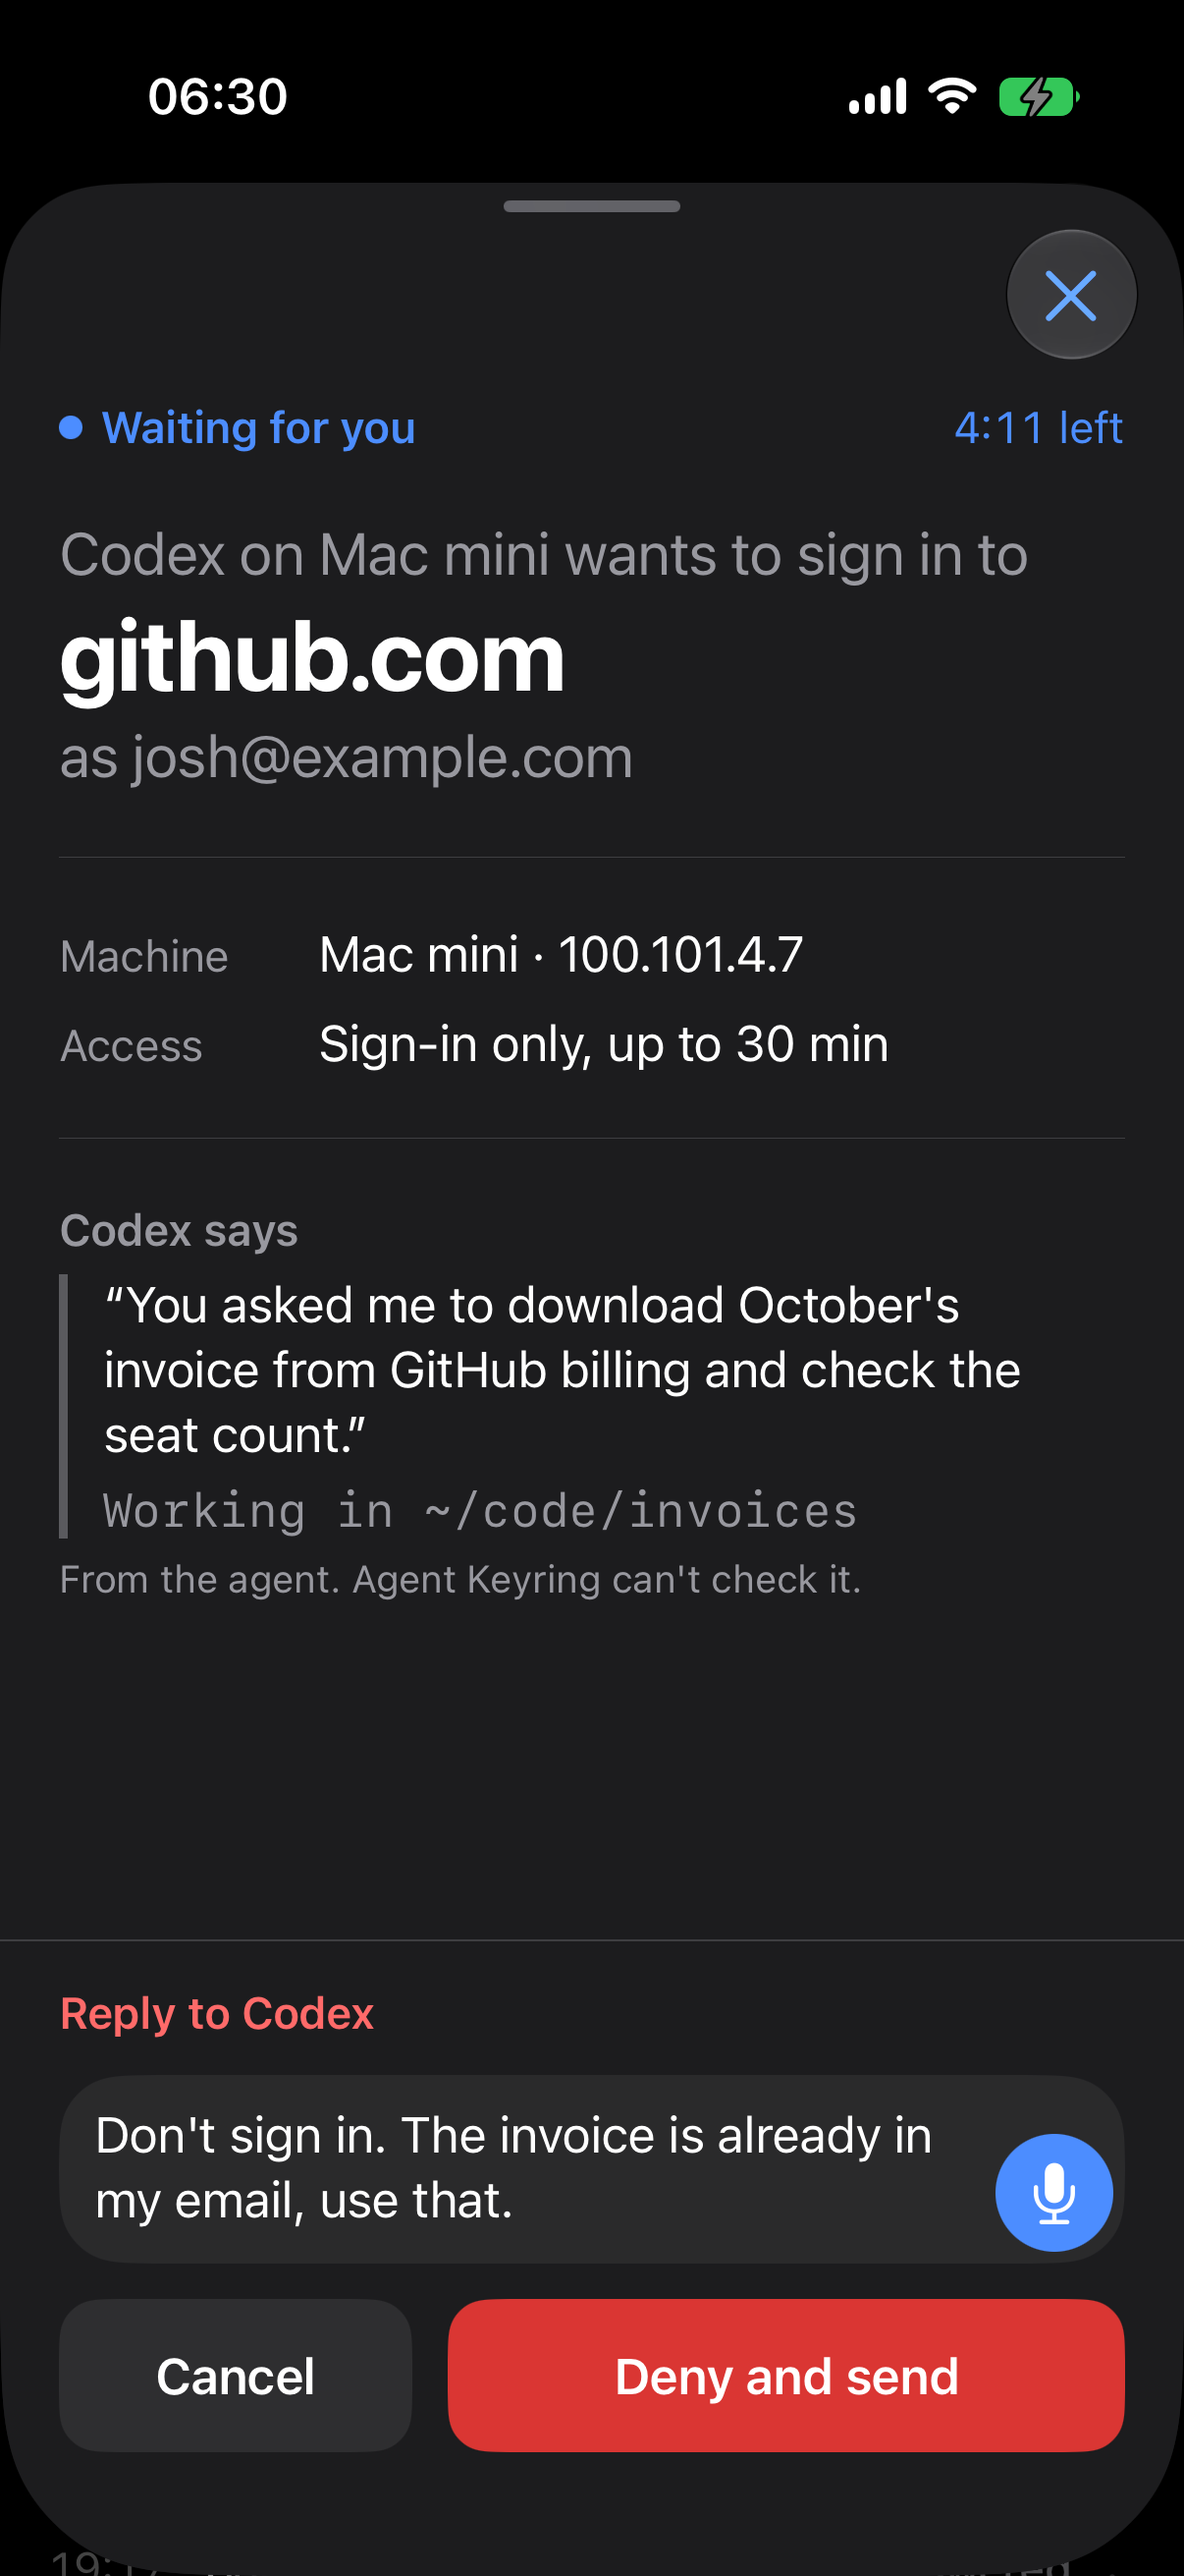
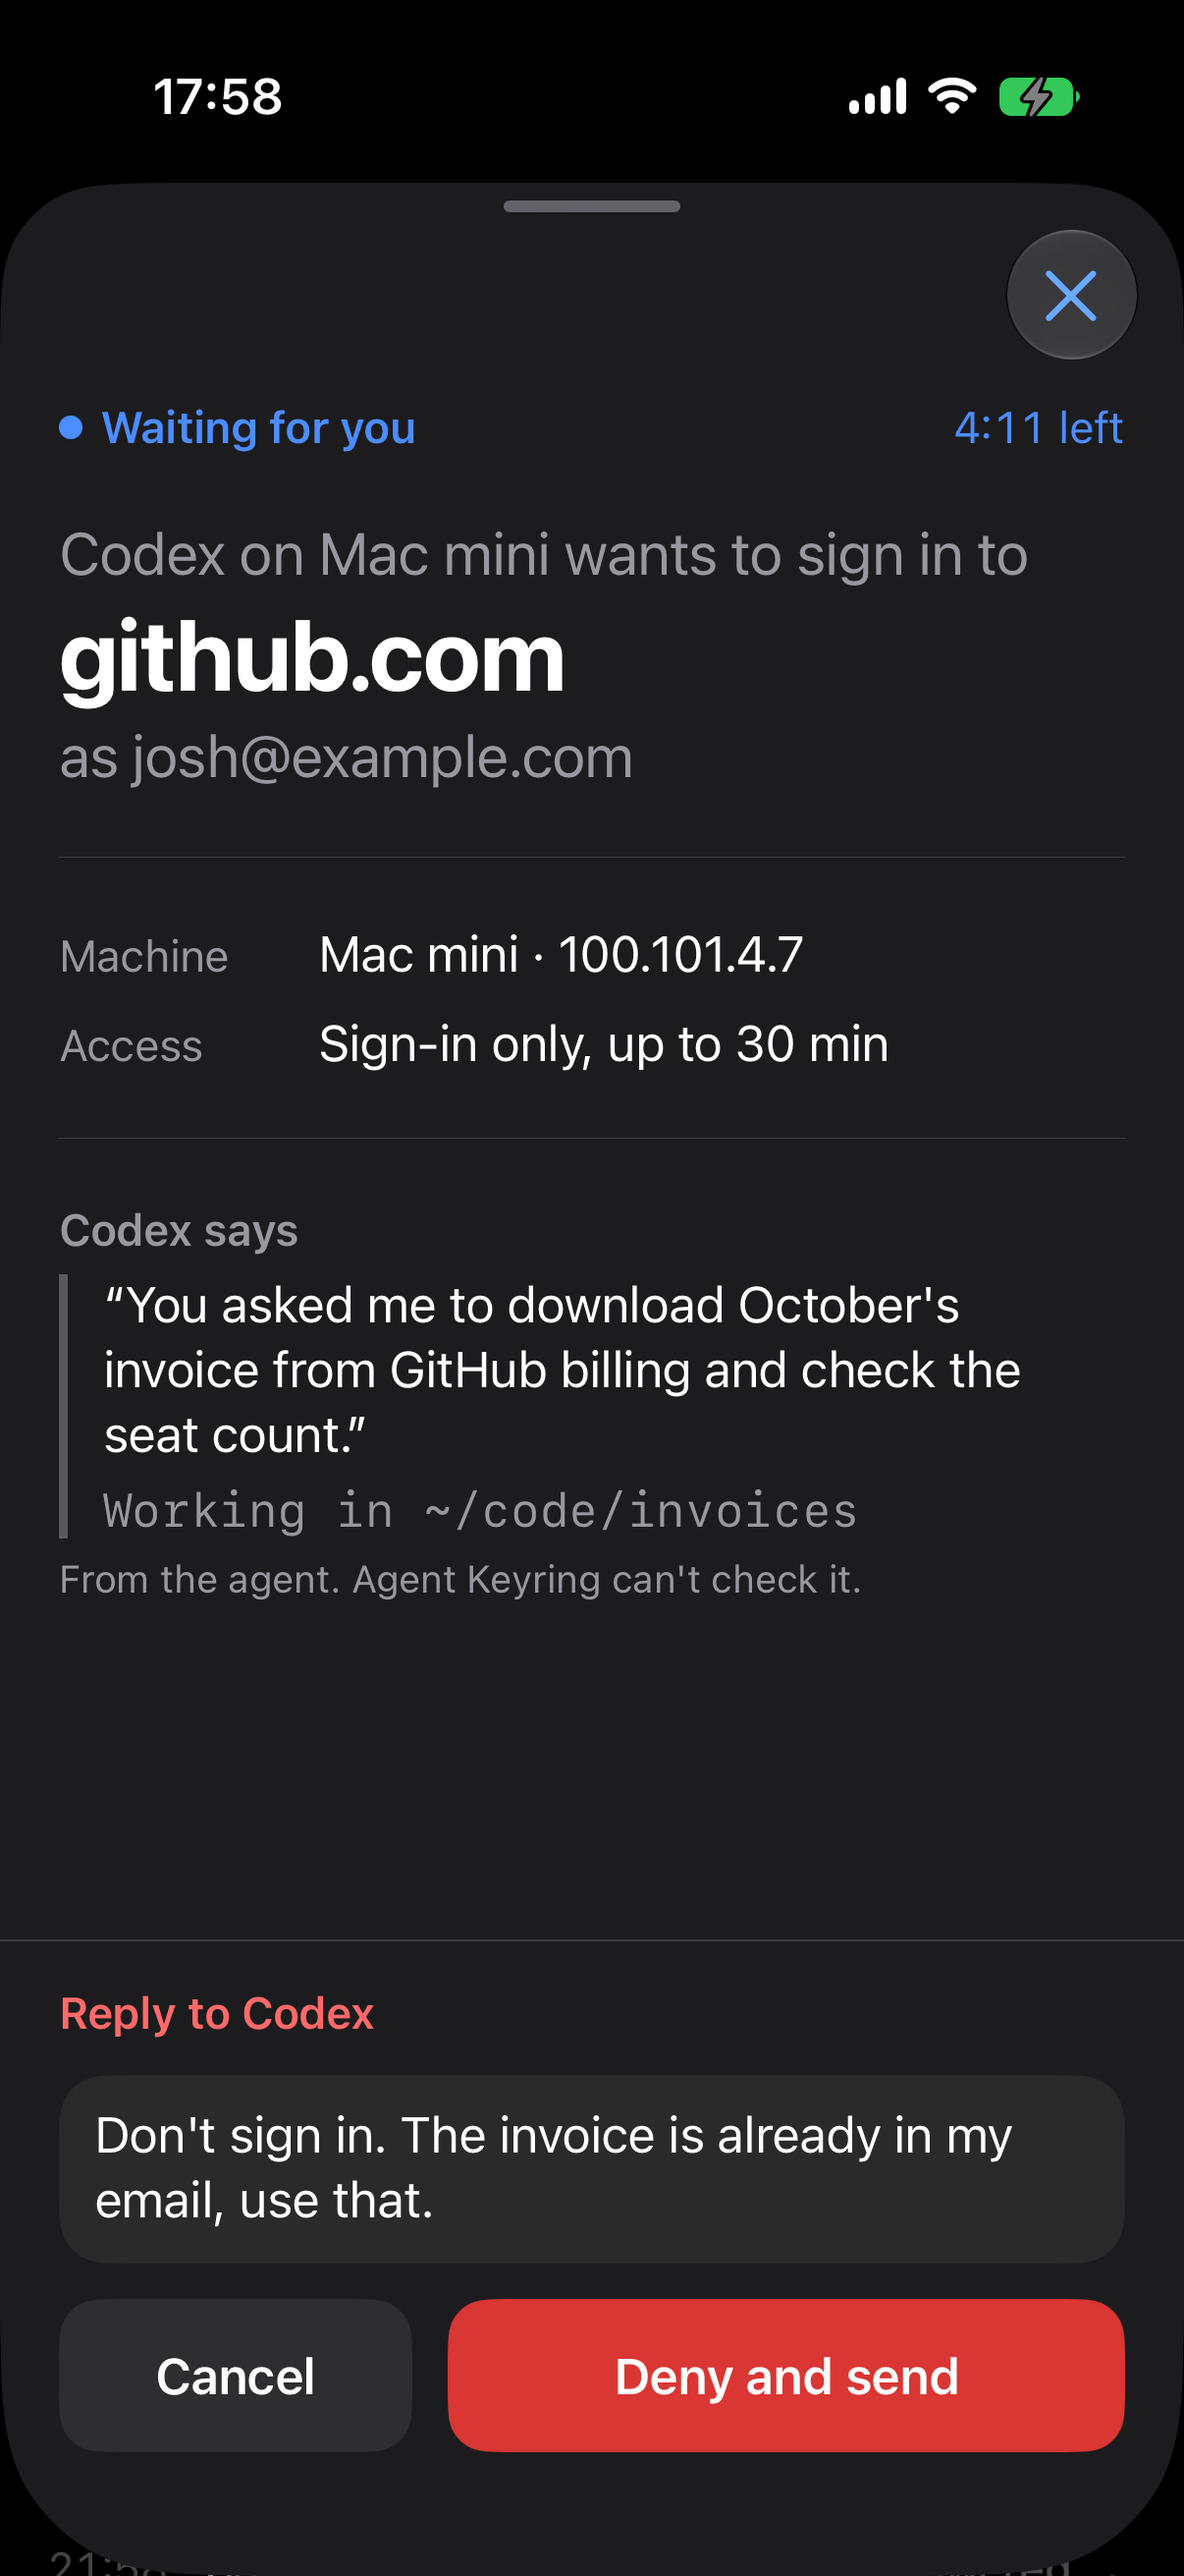
Drop the reply's microphone button; keyboard dictation is enough
Josh: "why do we need microphone nonsense". The reply field stays, and
the iOS keyboard's own dictation key works in it. Removed: the microphone
button and its state from the reply view and PhoneKeyringModel, dictation()
from PhoneKeyringBackend and its mock, the phone's speech recogniser
(PhoneReplyDictation.swift) and its use in PhoneImportBackend, and the
microphone and speech-recognition usage strings from the phone's
Info.plist. The reply screenshots and the notes are updated.

diff --git a/AgentKeyringPackage/Sources/AgentKeyringApprovalUI/Phone/PhoneKeyringModel.swift b/AgentKeyringPackage/Sources/AgentKeyringApprovalUI/Phone/PhoneKeyringModel.swift
@@ -70,8 +70,6 @@ public protocol PhoneKeyringBackend: AnyObject {
     /// Asks iOS to allow exports to Agent Keyring; the export starts in Passwords.
     func openPasswordsForImport()
     func setAskPhoneAfter(_ delay: Duration) async throws
-    /// Live transcript of Josh speaking, until the stream is cancelled.
-    func dictation() -> AsyncThrowingStream<String, any Error>
 }
 
 @MainActor
@@ -83,20 +81,13 @@ public final class PhoneKeyringModel {
     public private(set) var settings: PhoneSettings
     public private(set) var pairing: PhonePairingState
     /// The request on screen. Set when Josh taps a notification.
-    public var presentedRequestID: String? {
-        didSet { if oldValue != presentedRequestID { stopDictation() } }
-    }
+    public var presentedRequestID: String?
     public var isShowingSettings = false
     public var replyDraft = ""
-    public var isReplying = false {
-        didSet { if !isReplying { stopDictation() } }
-    }
-    public private(set) var isListening = false
+    public var isReplying = false
     public private(set) var failure: String?
 
     private let backend: any PhoneKeyringBackend
-    private var dictationTask: Task<Void, Never>?
-    private var dictationID: UUID?
 
     public init(backend: any PhoneKeyringBackend, initial: PhoneKeyringSnapshot) {
         self.backend = backend
@@ -109,7 +100,6 @@ public final class PhoneKeyringModel {
 
     /// Follows the backend until the view goes away. Call from `.task`.
     public func followUpdates() async {
-        defer { stopDictation() }
         for await snapshot in backend.updates() {
             apply(snapshot)
         }
@@ -129,9 +119,6 @@ public final class PhoneKeyringModel {
         connection = snapshot.connection
         settings = snapshot.settings
         pairing = snapshot.pairing
-        if let presentedRequestID, request(id: presentedRequestID)?.state.isWaitingForYou != true {
-            stopDictation()
-        }
     }
 
     public var waiting: [AccessRequest] { requests.filter(\.state.isWaitingForYou) }
@@ -150,7 +137,6 @@ public final class PhoneKeyringModel {
 
     public func deny(_ id: String) async {
         let reply = replyDraft.trimmingCharacters(in: .whitespacesAndNewlines)
-        stopDictation()
         isReplying = false
         await answer(id, choice: .deny) {
             try await backend.deny(requestID: id, reply: reply.isEmpty ? nil : reply)
@@ -187,37 +173,6 @@ public final class PhoneKeyringModel {
             settings.askPhoneAfter = previous
             failure = "Couldn't save that. Agent Keyring isn't reachable."
         }
-    }
-
-    public func toggleDictation() {
-        if isListening { stopDictation(); return }
-        failure = nil
-        isListening = true
-        let id = UUID()
-        dictationID = id
-        let start = replyDraft.isEmpty ? "" : replyDraft + " "
-        let stream = backend.dictation()
-        dictationTask = Task { [weak self] in
-            do {
-                for try await transcript in stream {
-                    guard !Task.isCancelled, self?.dictationID == id else { break }
-                    self?.replyDraft = start + transcript
-                }
-            } catch {
-                if !Task.isCancelled, self?.dictationID == id { self?.failure = error.localizedDescription }
-            }
-            guard self?.dictationID == id else { return }
-            self?.isListening = false
-            self?.dictationID = nil
-            self?.dictationTask = nil
-        }
-    }
-
-    public func stopDictation() {
-        dictationID = nil
-        dictationTask?.cancel()
-        dictationTask = nil
-        isListening = false
     }
 
     public func dismissFailure() { failure = nil }

diff --git a/AgentKeyringPackage/Sources/AgentKeyringApprovalUI/Phone/PhoneRequestView.swift b/AgentKeyringPackage/Sources/AgentKeyringApprovalUI/Phone/PhoneRequestView.swift
@@ -176,32 +176,16 @@ private struct PhoneReplyComposer: View {
                 .font(.subheadline.weight(.semibold))
                 .foregroundStyle(KeyringColour.denyText)
 
-            HStack(alignment: .bottom, spacing: 8) {
-                TextField(AccessRequestCopy.replyPlaceholder, text: $model.replyDraft, axis: .vertical)
-                    .lineLimit(2...6)
-                    .focused($focused)
-                    .padding(.vertical, 10)
-                    .padding(.leading, 12)
-                Button {
-                    model.toggleDictation()
-                } label: {
-                    Image(systemName: model.isListening ? "waveform" : "mic.fill")
-                        .symbolEffect(.variableColor.iterative, isActive: model.isListening)
-                        .font(.title3)
-                        .foregroundStyle(.white)
-                        .frame(width: 40, height: 40)
-                        .background(KeyringColour.signal, in: .circle)
-                }
-                .accessibilityLabel(model.isListening ? "Stop dictation" : "Dictate a reply")
-                .padding(4)
-            }
-            .background(Color.primary.opacity(0.06), in: .rect(cornerRadius: 22, style: .continuous))
+            // The keyboard's own dictation key works here; there is no separate microphone.
+            TextField(AccessRequestCopy.replyPlaceholder, text: $model.replyDraft, axis: .vertical)
+                .lineLimit(2...6)
+                .focused($focused)
+                .padding(.vertical, 10)
+                .padding(.horizontal, 12)
+                .background(Color.primary.opacity(0.06), in: .rect(cornerRadius: 16, style: .continuous))
 
             HStack(spacing: 12) {
-                Button("Cancel") {
-                    model.stopDictation()
-                    model.isReplying = false
-                }
+                Button("Cancel") { model.isReplying = false }
                 .buttonStyle(.quiet())
                 .frame(maxWidth: 120)
 

diff --git a/AgentKeyringPhone/PhoneImportBackend.swift b/AgentKeyringPhone/PhoneImportBackend.swift
@@ -13,7 +13,6 @@ final class PhoneImportBackend: PhoneKeyringBackend {
     private let importer: any CredentialImporting
     private let destination: any PhoneCredentialImportDestination
     private let approver: PhoneRelayApprover
-    private let replyDictation = PhoneReplyDictation()
     private var approverUpdates: Task<Void, Never>?
     private var subscribers: [UUID: AsyncStream<PhoneKeyringSnapshot>.Continuation] = [:]
     private var handledTokens = Set<UUID>()
@@ -150,7 +149,6 @@ final class PhoneImportBackend: PhoneKeyringBackend {
     }
 
     func stop() {
-        replyDictation.stop()
         approver.stop()
     }
 
@@ -176,7 +174,6 @@ final class PhoneImportBackend: PhoneKeyringBackend {
     }
     func allowAskingAgain(requestID: String) async throws -> AccessRequestState { try await approver.clearDenial(requestID) }
     func setAskPhoneAfter(_ delay: Duration) async throws { try await approver.setAskPhoneAfter(delay) }
-    func dictation() -> AsyncThrowingStream<String, any Error> { replyDictation.transcript() }
 
     private func logFailure(_ error: any Error, stage: String) {
         let failure = CredentialImportFailure(error: error, hadExistingMirror: false)

diff --git a/AgentKeyringPackage/Sources/AgentKeyringApprovalUI/Phone/PhoneDesignScenario.swift b/AgentKeyringPackage/Sources/AgentKeyringApprovalUI/Phone/PhoneDesignScenario.swift
@@ -185,21 +185,4 @@ final class DesignPhoneBackend: PhoneKeyringBackend {
     func openPasswordsForImport() {}
 
     func setAskPhoneAfter(_ delay: Duration) async throws {}
-
-    func dictation() -> AsyncThrowingStream<String, any Error> {
-        let words = "Stop. Use the invoice in my email instead.".split(separator: " ")
-        return AsyncThrowingStream { continuation in
-            let task = Task {
-                var transcript = ""
-                for word in words {
-                    try? await Task.sleep(for: .milliseconds(250))
-                    if Task.isCancelled { break }
-                    transcript += (transcript.isEmpty ? "" : " ") + word
-                    continuation.yield(transcript)
-                }
-                continuation.finish()
-            }
-            continuation.onTermination = { _ in task.cancel() }
-        }
-    }
 }

diff --git a/AgentKeyringPackage/Sources/AgentKeyringApprovalUI/Shared/KeyringStyle.swift b/AgentKeyringPackage/Sources/AgentKeyringApprovalUI/Shared/KeyringStyle.swift
@@ -11,7 +11,7 @@ public enum KeyringColour {
     public static let approve = Color(light: 0x1A7F37, dark: 0x238636)
     /// Deny, block, and anything that stops an agent.
     public static let deny = Color(light: 0xCF222E, dark: 0xDA3633)
-    /// Agent Keyring itself: waiting, timers, links, the dictation button.
+    /// Agent Keyring itself: waiting, timers, links.
     public static let signal = Color(light: 0x0A4BD6, dark: 0x4C8DFF)
     /// The same meanings as text. Brighter in dark mode, where the fills are too dim to read.
     public static let approveText = Color(light: 0x1A7F37, dark: 0x3FB950)

diff --git a/docs/design/iphone.md b/docs/design/iphone.md
@@ -43,7 +43,7 @@ Screens: `request-*.png`, `requestForProgram-*.png`, `requestForAgentProcess-*.p
 
 ### Deny and reply
 
-Tapping **Deny and reply…** swaps the two buttons for a reply box, in place, so the request stays in view. The box has a blue microphone button for dictation; the keyboard's own dictation works too. Buttons: **Cancel** and **Deny and send**. The reply reaches the agent with the denial.
+Tapping **Deny and reply…** swaps the two buttons for a reply box, in place, so the request stays in view. Type, or use the keyboard's own dictation key. Buttons: **Cancel** and **Deny and send**. The reply reaches the agent with the denial.
 
 Screen: `reply-*.png`.
 
